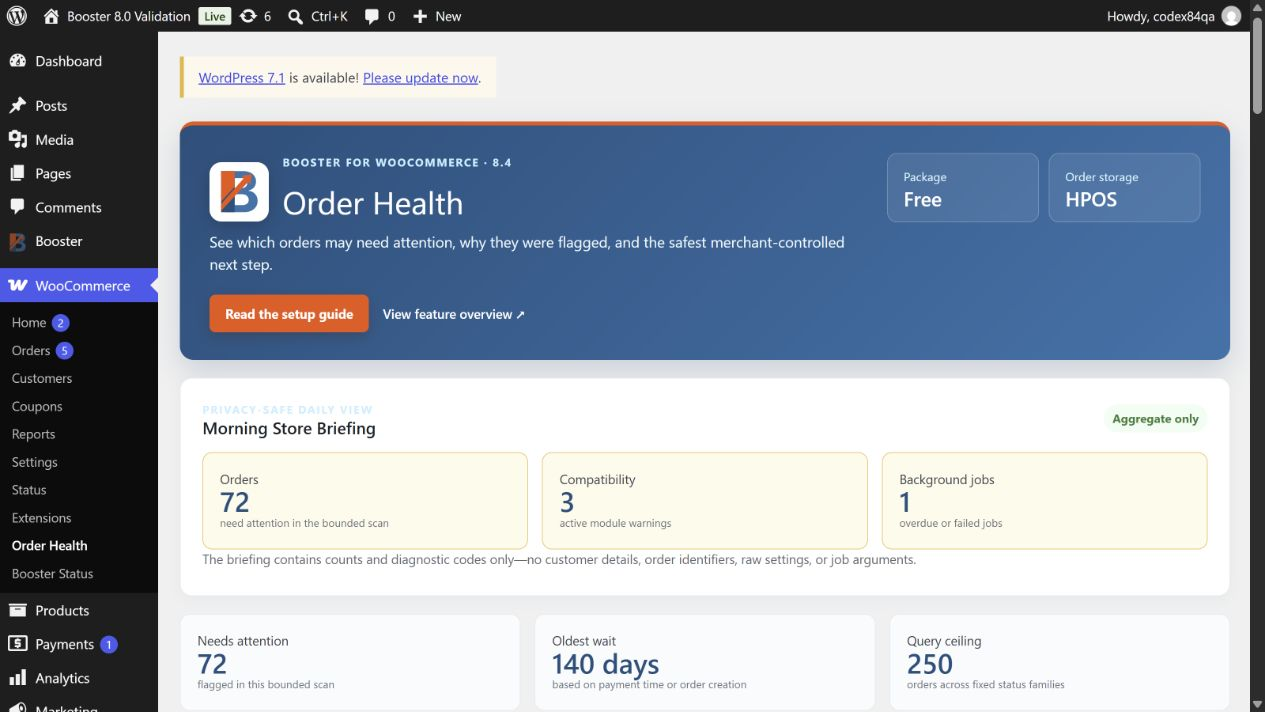
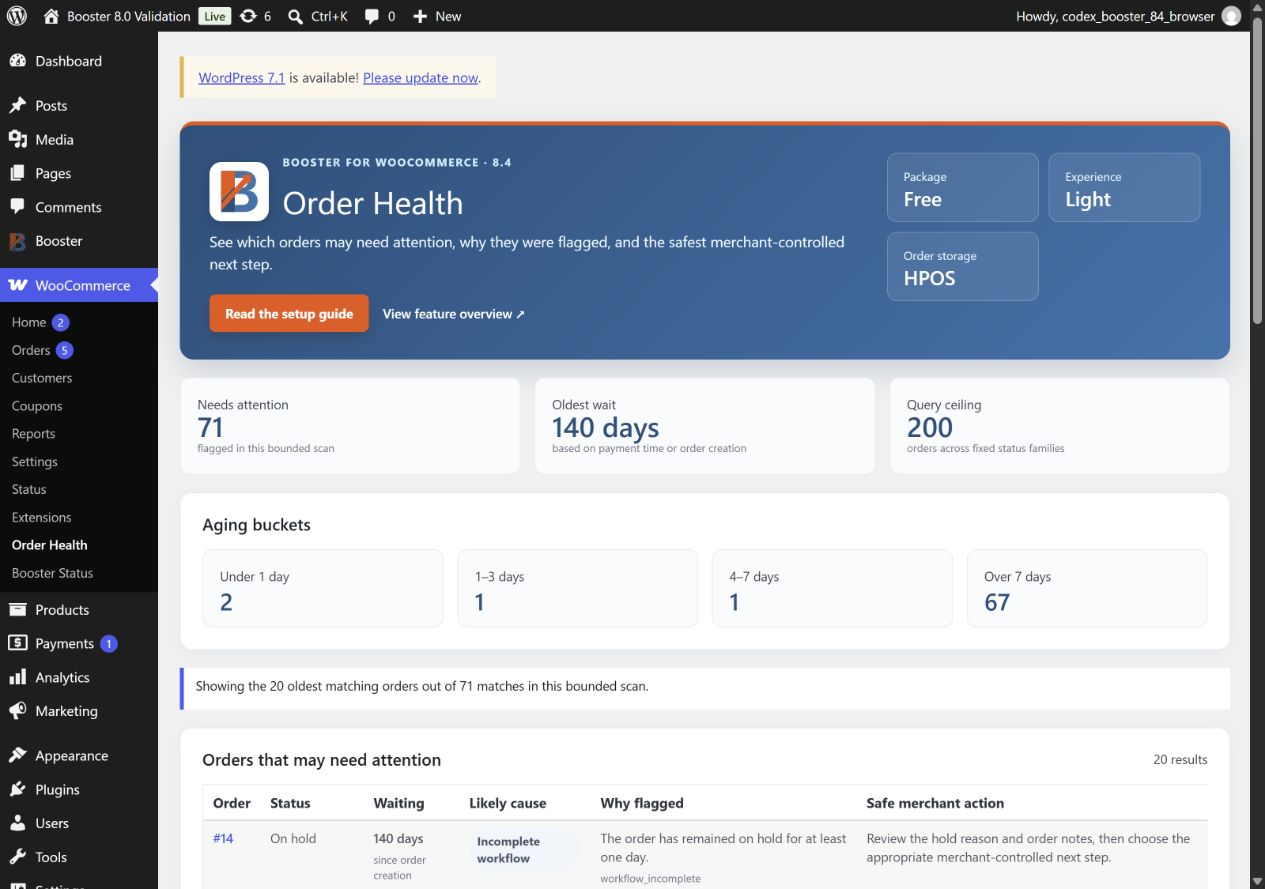
Add adversarial QA evidence for Order Health tiers

diff --git a/tests/integration/codex-8-4-option-shortcode-security.php b/tests/integration/codex-8-4-option-shortcode-security.php
@@ -36,6 +36,10 @@ function codex_booster_84_shortcode_callback( $tag ) {
 	return $shortcode_tags[ $tag ];
 }
 
+function codex_booster_84_call_shortcode( $callback, $tag, $atts ) {
+	return call_user_func( $callback, $atts, '', $tag );
+}
+
 $original_user_id = get_current_user_id();
 $created_users    = array();
 $fixture_options  = array(
@@ -78,8 +82,8 @@ try {
 
 		$shortcode_get = do_shortcode( '[wcj_get_option name="' . $private_name . '" default="must-not-leak"]' );
 		$shortcode_wp  = do_shortcode( '[wcj_wp_option option="' . $private_name . '" default="must-not-leak"]' );
-		$direct_get    = call_user_func( $get_option_callback, array( 'name' => $private_name, 'default' => 'must-not-leak' ) );
-		$direct_wp     = call_user_func( $wp_option_callback, array( 'option' => $private_name, 'default' => 'must-not-leak' ) );
+		$direct_get    = codex_booster_84_call_shortcode( $get_option_callback, 'wcj_get_option', array( 'name' => $private_name, 'default' => 'must-not-leak' ) );
+		$direct_wp     = codex_booster_84_call_shortcode( $wp_option_callback, 'wcj_wp_option', array( 'option' => $private_name, 'default' => 'must-not-leak' ) );
 
 		codex_booster_84_security_assert( $expected === $shortcode_get, $role . ' shortcode wcj_get_option boundary failed.' );
 		codex_booster_84_security_assert( $expected === $shortcode_wp, $role . ' shortcode wcj_wp_option boundary failed.' );
@@ -101,7 +105,7 @@ try {
 			array( 'name' => 'wcj_' . str_repeat( 'x', 220 ), 'default' => 'default-leak' ),
 		) as $atts
 	) {
-		codex_booster_84_security_assert( '' === call_user_func( $get_option_callback, $atts ), 'Contributor direct wcj_get_option malformed-input denial failed.' );
+		codex_booster_84_security_assert( '' === codex_booster_84_call_shortcode( $get_option_callback, 'wcj_get_option', $atts ), 'Contributor direct wcj_get_option malformed-input denial failed.' );
 	}
 	foreach (
 		array(
@@ -113,24 +117,24 @@ try {
 			array( 'option' => 'wcj_' . str_repeat( 'x', 220 ), 'default' => 'default-leak' ),
 		) as $atts
 	) {
-		codex_booster_84_security_assert( '' === call_user_func( $wp_option_callback, $atts ), 'Contributor direct wcj_wp_option malformed-input denial failed.' );
+		codex_booster_84_security_assert( '' === codex_booster_84_call_shortcode( $wp_option_callback, 'wcj_wp_option', $atts ), 'Contributor direct wcj_wp_option malformed-input denial failed.' );
 	}
 
 	// Authorized users retain exact scalar, similar-name, array-field, and default behavior.
 	foreach ( array( 'shop_manager', 'administrator' ) as $role ) {
 		wp_set_current_user( $users[ $role ] );
-		codex_booster_84_security_assert( $private_value === call_user_func( $get_option_callback, array( 'name' => $private_name ) ), $role . ' scalar access failed.' );
-		codex_booster_84_security_assert( 'codex-similar-name-value' === call_user_func( $get_option_callback, array( 'name' => 'prefix_wcj_codex_84_setting' ) ), $role . ' similar-name access changed.' );
-		codex_booster_84_security_assert( 'beta' === call_user_func( $get_option_callback, array( 'name' => 'wcj_codex_84_array_setting', 'field' => 'second' ) ), $role . ' array field access failed.' );
-		codex_booster_84_security_assert( 'safe-default' === call_user_func( $get_option_callback, array( 'name' => 'wcj_missing_codex_84_setting', 'default' => 'safe-default' ) ), $role . ' default behavior failed.' );
-		codex_booster_84_security_assert( $private_value === call_user_func( $wp_option_callback, array( 'option' => $private_name ) ), $role . ' wcj_wp_option missing-default behavior failed.' );
+		codex_booster_84_security_assert( $private_value === codex_booster_84_call_shortcode( $get_option_callback, 'wcj_get_option', array( 'name' => $private_name ) ), $role . ' scalar access failed.' );
+		codex_booster_84_security_assert( 'codex-similar-name-value' === codex_booster_84_call_shortcode( $get_option_callback, 'wcj_get_option', array( 'name' => 'prefix_wcj_codex_84_setting' ) ), $role . ' similar-name access changed.' );
+		codex_booster_84_security_assert( 'beta' === codex_booster_84_call_shortcode( $get_option_callback, 'wcj_get_option', array( 'name' => 'wcj_codex_84_array_setting', 'field' => 'second' ) ), $role . ' array field access failed.' );
+		codex_booster_84_security_assert( 'safe-default' === codex_booster_84_call_shortcode( $get_option_callback, 'wcj_get_option', array( 'name' => 'wcj_missing_codex_84_setting', 'default' => 'safe-default' ) ), $role . ' default behavior failed.' );
+		codex_booster_84_security_assert( $private_value === codex_booster_84_call_shortcode( $wp_option_callback, 'wcj_wp_option', array( 'option' => $private_name ) ), $role . ' wcj_wp_option missing-default behavior failed.' );
 	}
 
 	// The existing name restriction is independent of role/capability.
 	wp_set_current_user( $users['administrator'] );
 	foreach ( array( 'admin_email', 'woocommerce_stripe_settings', 'WCJ_UPPERCASE_LOOKALIKE' ) as $non_booster_option ) {
-		codex_booster_84_security_assert( '' === call_user_func( $get_option_callback, array( 'name' => $non_booster_option, 'default' => 'must-not-leak' ) ), 'Non-wcj wcj_get_option access must remain denied.' );
-		codex_booster_84_security_assert( '' === call_user_func( $wp_option_callback, array( 'option' => $non_booster_option, 'default' => 'must-not-leak' ) ), 'Non-wcj wcj_wp_option access must remain denied.' );
+		codex_booster_84_security_assert( '' === codex_booster_84_call_shortcode( $get_option_callback, 'wcj_get_option', array( 'name' => $non_booster_option, 'default' => 'must-not-leak' ) ), 'Non-wcj wcj_get_option access must remain denied.' );
+		codex_booster_84_security_assert( '' === codex_booster_84_call_shortcode( $wp_option_callback, 'wcj_wp_option', array( 'option' => $non_booster_option, 'default' => 'must-not-leak' ) ), 'Non-wcj wcj_wp_option access must remain denied.' );
 	}
 
 	$results['direct_callback']      = 'passed';

diff --git a/docs/codex-order-health-8-4-staging-content-package.md b/docs/codex-order-health-8-4-staging-content-package.md
@@ -82,4 +82,3 @@ Only use fixture orders on staging. Do not expose customer names, addresses, ema
 - Confirm visible copy and screenshot data are privacy-safe.
 - Check CTA destinations and ensure no staging link is accidentally introduced into plugin release copy.
 - Record the Booster.io PR SHA and staging validation evidence before Rony receives the website handoff.
-

diff --git a/docs/codex-order-health-8-4-technical.md b/docs/codex-order-health-8-4-technical.md
@@ -81,4 +81,3 @@ wp eval-file tests/integration/codex-8-4-option-shortcode-security.php
 ```
 
 Release evidence must identify the committed SHA, exact ZIP SHA-256, WordPress/WooCommerce/PHP versions, storage mode, install path, upgrade path, browser checks, and log/console results for Free, Plus, and Elite.
-
